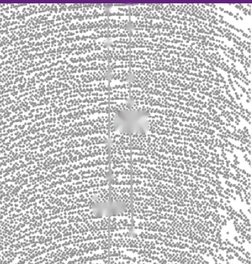
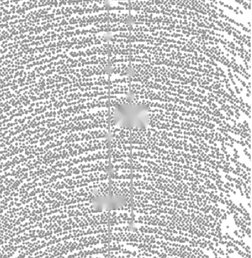
Method figure: crop the predictions, novel-view and initialization panels inside their source borders

diff --git a/index.html b/index.html
@@ -381,7 +381,7 @@ footer{padding-block:32px 48px;color:var(--dim);font-size:.85rem;text-align:cent
   <g class="st-init">
     <path class="fl a-in" d="M242,140 H274" fill="none" stroke="#7a7a7a" stroke-width="1.7" marker-end="url(#mt-ahg)"/><path class="fl a-in" d="M242,224 H274" fill="none" stroke="#7a7a7a" stroke-width="1.7" marker-end="url(#mt-ahg)"/><path class="fl a-in" d="M242,304 H274" fill="none" stroke="#7a7a7a" stroke-width="1.7" marker-end="url(#mt-ahg)"/>
     <g class=""><rect x="276" y="48" width="132" height="180" rx="5" fill="#fff" stroke="#6a2a8c" stroke-width="1.6"/><rect x="276" y="48" width="132" height="42" rx="5" fill="#e6d8f0" stroke="#6a2a8c" stroke-width="1.6"/><text x="342.0" y="66.0" text-anchor="middle" class="hd">Scene</text><text x="342.0" y="82.0" text-anchor="middle" class="hd">Initialization</text></g>
-    <image class="cloud" href="static/images/method/init_bg.jpg" x="279" y="94" width="126" height="132" clip-path="url(#mt-sweep)"/>
+    <image class="cloud" href="static/images/method/init_bg.jpg" x="279" y="97" width="126" height="129" clip-path="url(#mt-sweep)"/>
     <g class="seeds" fill="#e3122f"><circle cx="340.5" cy="155.3" r="1.1"/><circle cx="342.6" cy="155.9" r="1.1"/><circle cx="346.7" cy="150.3" r="1.1"/><circle cx="336.9" cy="158.3" r="1.1"/><circle cx="340.8" cy="152.1" r="1.1"/><circle cx="352.6" cy="154.5" r="1.1"/><circle cx="350.1" cy="154.6" r="1.1"/><circle cx="346.9" cy="151.2" r="1.1"/><circle cx="346.8" cy="158.6" r="1.1"/><circle cx="345.0" cy="157.3" r="1.1"/><circle cx="347.4" cy="150.3" r="1.1"/><circle cx="348.8" cy="155.8" r="1.1"/><circle cx="341.5" cy="150.0" r="1.1"/><circle cx="350.5" cy="154.6" r="1.1"/><circle cx="348.2" cy="158.7" r="1.1"/><circle cx="348.1" cy="159.2" r="1.1"/><circle cx="343.0" cy="157.9" r="1.1"/><circle cx="343.8" cy="159.3" r="1.1"/><circle cx="350.7" cy="150.7" r="1.1"/><circle cx="338.8" cy="151.9" r="1.1"/><circle cx="352.1" cy="154.2" r="1.1"/><circle cx="346.7" cy="152.8" r="1.1"/><circle cx="344.8" cy="153.7" r="1.1"/><circle cx="342.3" cy="155.7" r="1.1"/><circle cx="346.0" cy="159.0" r="1.1"/><circle cx="347.6" cy="159.3" r="1.1"/><circle cx="350.4" cy="159.9" r="1.1"/><circle cx="347.4" cy="151.4" r="1.1"/><circle cx="350.4" cy="159.6" r="1.1"/><circle cx="351.1" cy="155.5" r="1.1"/><circle cx="348.1" cy="151.9" r="1.1"/><circle cx="350.0" cy="155.6" r="1.1"/><circle cx="341.2" cy="150.3" r="1.1"/><circle cx="350.3" cy="159.9" r="1.1"/><circle cx="338.1" cy="157.9" r="1.1"/><circle cx="343.2" cy="151.2" r="1.1"/><circle cx="341.4" cy="157.6" r="1.1"/><circle cx="350.6" cy="150.1" r="1.1"/><circle cx="346.5" cy="150.1" r="1.1"/><circle cx="348.2" cy="153.1" r="1.1"/><circle cx="350.8" cy="159.8" r="1.1"/><circle cx="344.8" cy="160.0" r="1.1"/><circle cx="341.6" cy="150.5" r="1.1"/><circle cx="346.3" cy="150.0" r="1.1"/><circle cx="339.8" cy="153.9" r="1.1"/><circle cx="346.4" cy="151.3" r="1.1"/><circle cx="337.3" cy="158.6" r="1.1"/><circle cx="341.7" cy="159.6" r="1.1"/><circle cx="351.0" cy="153.6" r="1.1"/><circle cx="344.0" cy="155.0" r="1.1"/><circle cx="347.0" cy="155.8" r="1.1"/><circle cx="345.6" cy="156.1" r="1.1"/><circle cx="351.7" cy="154.9" r="1.1"/><circle cx="343.6" cy="157.1" r="1.1"/><circle cx="340.5" cy="152.8" r="1.1"/><circle cx="352.3" cy="155.1" r="1.1"/><circle cx="345.4" cy="149.8" r="1.1"/><circle cx="343.3" cy="155.7" r="1.1"/><circle cx="337.0" cy="156.0" r="1.1"/><circle cx="346.8" cy="150.3" r="1.1"/><circle cx="346.7" cy="154.5" r="1.1"/><circle cx="347.5" cy="153.3" r="1.1"/><circle cx="348.0" cy="157.3" r="1.1"/><circle cx="337.0" cy="150.3" r="1.1"/><circle cx="347.5" cy="159.6" r="1.1"/><circle cx="340.7" cy="154.4" r="1.1"/><circle cx="346.2" cy="153.0" r="1.1"/><circle cx="342.5" cy="152.9" r="1.1"/><circle cx="342.6" cy="155.8" r="1.1"/><circle cx="341.5" cy="153.6" r="1.1"/><circle cx="349.0" cy="149.9" r="1.1"/><circle cx="345.8" cy="157.3" r="1.1"/><circle cx="341.6" cy="152.0" r="1.1"/><circle cx="349.5" cy="152.1" r="1.1"/><circle cx="339.7" cy="154.2" r="1.1"/><circle cx="336.6" cy="195.6" r="1.1"/><circle cx="330.7" cy="197.1" r="1.1"/><circle cx="338.7" cy="197.8" r="1.1"/><circle cx="339.1" cy="196.1" r="1.1"/><circle cx="330.9" cy="199.1" r="1.1"/><circle cx="339.5" cy="197.9" r="1.1"/><circle cx="329.2" cy="195.8" r="1.1"/><circle cx="334.0" cy="196.2" r="1.1"/><circle cx="338.3" cy="200.3" r="1.1"/><circle cx="328.5" cy="196.8" r="1.1"/><circle cx="338.3" cy="199.1" r="1.1"/><circle cx="338.3" cy="197.2" r="1.1"/><circle cx="327.7" cy="196.8" r="1.1"/><circle cx="338.1" cy="196.7" r="1.1"/><circle cx="331.1" cy="197.6" r="1.1"/><circle cx="332.2" cy="197.6" r="1.1"/><circle cx="340.1" cy="196.0" r="1.1"/><circle cx="325.7" cy="201.0" r="1.1"/><circle cx="339.5" cy="201.2" r="1.1"/><circle cx="332.5" cy="201.0" r="1.1"/><circle cx="340.2" cy="196.4" r="1.1"/><circle cx="337.4" cy="200.3" r="1.1"/><circle cx="336.1" cy="198.3" r="1.1"/><circle cx="330.2" cy="197.2" r="1.1"/><circle cx="329.2" cy="195.4" r="1.1"/><circle cx="334.9" cy="196.8" r="1.1"/><circle cx="338.4" cy="195.3" r="1.1"/><circle cx="339.8" cy="199.4" r="1.1"/><circle cx="340.1" cy="200.7" r="1.1"/><circle cx="339.8" cy="198.7" r="1.1"/><circle cx="325.9" cy="199.7" r="1.1"/><circle cx="328.4" cy="196.9" r="1.1"/><circle cx="336.1" cy="198.3" r="1.1"/><circle cx="332.2" cy="200.9" r="1.1"/><circle cx="335.3" cy="197.2" r="1.1"/><circle cx="329.6" cy="200.5" r="1.1"/><circle cx="333.1" cy="200.0" r="1.1"/><circle cx="331.2" cy="196.2" r="1.1"/><circle cx="334.0" cy="200.2" r="1.1"/><circle cx="328.4" cy="200.0" r="1.1"/><circle cx="340.1" cy="200.1" r="1.1"/><circle cx="338.6" cy="195.0" r="1.1"/><circle cx="335.5" cy="200.5" r="1.1"/><circle cx="326.5" cy="196.7" r="1.1"/><circle cx="329.9" cy="198.3" r="1.1"/></g>
     <g class="knots-i" fill="#2a74e0"><circle class="kn" style="--i:0" cx="345.04" cy="210.37" r="1.7"/><circle class="kn" style="--i:1" cx="333.86" cy="182.31" r="1.7"/><circle class="kn" style="--i:2" cx="333.27" cy="165.28" r="1.7"/><circle class="kn" style="--i:3" cx="343.83" cy="144.85" r="1.7"/><circle class="kn" style="--i:4" cx="343.93" cy="132.87" r="1.7"/><circle class="kn" style="--i:5" cx="333.37" cy="131.49" r="1.7"/><circle class="kn" style="--i:6" cx="332.88" cy="115.34" r="1.7"/><circle class="kn" style="--i:7" cx="343.93" cy="107.73" r="1.7"/><circle class="kn" style="--i:8" cx="332.96" cy="98.22" r="1.7"/><circle class="kn" style="--i:9" cx="343.33" cy="95.95" r="1.7"/></g>
     <g class=""><rect x="276" y="240" width="130" height="100" rx="5" fill="#fff" stroke="#6a2a8c" stroke-width="1.6"/><rect x="276" y="240" width="130" height="42" rx="5" fill="#e6d8f0" stroke="#6a2a8c" stroke-width="1.6"/><text x="341.0" y="258.0" text-anchor="middle" class="hd">Fixed Sensor</text><text x="341.0" y="274.0" text-anchor="middle" class="hd">Model</text></g>
@@ -399,7 +399,7 @@ footer{padding-block:32px 48px;color:var(--dim);font-size:.85rem;text-align:cent
     <text x="773" y="266" text-anchor="middle" class="hd" font-size="15">RAD Renderer</text>
     <path class="fl a-opt" d="M636,252 H698" fill="none" stroke="#7a7a7a" stroke-width="1.7" marker-end="url(#mt-ahg)"/><path class="fl a-opt" d="M341,340 V356 H773 V284" fill="none" stroke="#7a7a7a" stroke-width="1.7" marker-end="url(#mt-ahg)"/><path class="fl a-opt" d="M773,238 V206" fill="none" stroke="#7a7a7a" stroke-width="1.7" marker-end="url(#mt-ahg)"/>
     <g class=""><rect x="670" y="48" width="232" height="156" rx="5" fill="#fff" stroke="#8f1d3a" stroke-width="1.6"/><rect x="670" y="48" width="232" height="26" rx="5" fill="#f4c3cd" stroke="#8f1d3a" stroke-width="1.6"/><text x="786.0" y="66.0" text-anchor="middle" class="hd"></text><text x="786" y="66" text-anchor="middle" class="hd">Radar Predictions {<tspan font-style="italic">Ŷ</tspan><tspan dy="4" class="sb">t</tspan><tspan dy="-4">, </tspan><tspan font-style="italic">P</tspan><tspan dy="4" class="sb">t</tspan><tspan dy="-4" dx="1.5">}</tspan><tspan dy="-6" dx=".5" class="sb">T</tspan><tspan dy="10" dx="-5" class="sb">t=1</tspan></text></g>
-    <image href="static/images/method/pred.jpg" x="674" y="78" width="224" height="124"/>
+    <image href="static/images/method/pred.jpg" x="674" y="80" width="224" height="122"/>
     <g class="loss"><rect x="452" y="8" width="184" height="32" rx="5" fill="#f5c2cb" stroke="#e39aa7"/>
       <text x="544" y="29" text-anchor="middle" class="hd" font-size="14.5"><tspan font-style="italic">ℒ</tspan> = <tspan font-style="italic">ℒ</tspan><tspan dy="4" class="sb">rec</tspan><tspan dy="-4"> + </tspan><tspan font-style="italic">λ</tspan><tspan dy="4" class="sb">int</tspan><tspan dy="-4" font-style="italic"> ℒ</tspan><tspan dy="4" class="sb">int</tspan></text></g>
     <path class="gr" d="M124,48 V24 H450" fill="none" stroke="#cc1f2f" stroke-width="1.7" stroke-dasharray="7 5" marker-end="url(#mt-ahr)"/><path class="gr" d="M638,24 H786 V46" fill="none" stroke="#cc1f2f" stroke-width="1.7" stroke-dasharray="7 5" marker-end="url(#mt-ahr)"/><path class="gr" d="M795,206 V236" fill="none" stroke="#cc1f2f" stroke-width="1.7" stroke-dasharray="7 5" marker-end="url(#mt-ahr)"/><path class="gr" d="M698,266 H638" fill="none" stroke="#cc1f2f" stroke-width="1.7" stroke-dasharray="7 5" marker-end="url(#mt-ahr)"/>
@@ -409,7 +409,7 @@ footer{padding-block:32px 48px;color:var(--dim);font-size:.85rem;text-align:cent
   <g class="st-nv">
     <path class="fl a-nv" d="M846,260 H864" fill="none" stroke="#7a7a7a" stroke-width="1.7" marker-end="url(#mt-ahg)"/>
     <g class=""><rect x="866" y="210" width="237" height="148" rx="5" fill="#fff" stroke="#3c8a32" stroke-width="1.6"/><rect x="866" y="210" width="237" height="24" rx="5" fill="#d3ecca" stroke="#3c8a32" stroke-width="1.6"/><text x="984.5" y="227.0" text-anchor="middle" class="hd"></text><text x="984" y="227" text-anchor="middle" class="hd">Novel view <tspan font-style="italic">Ŷ</tspan><tspan dy="4" class="sb">t*</tspan><tspan dy="-4">, </tspan><tspan font-style="italic">P</tspan><tspan dy="4" class="sb">t*</tspan></text></g>
-    <image class="novel" href="static/images/method/novel.jpg" x="870" y="238" width="230" height="118" clip-path="url(#mt-wipe)"/>
+    <image class="novel" href="static/images/method/novel.jpg" x="870" y="238" width="225" height="118" clip-path="url(#mt-wipe)"/>
   </g>
 
   <g class="legendbox"><rect x="930" y="42" width="173" height="58" rx="8" fill="#fff" stroke="#bdbdbd" stroke-width="1.4"/>

diff --git a/tools/build_method.py b/tools/build_method.py
@@ -142,7 +142,7 @@ def svg():
   <g class="st-init">
     {arrow("M242,140 H274", "fl a-in")}{arrow("M242,224 H274", "fl a-in")}{arrow("M242,304 H274", "fl a-in")}
     {box(276, 48, 132, 180, PURP, PURP_F, "Scene\nInitialization", hh=42)}</g>
-    <image class="cloud" href="{IMG}init_bg.jpg" x="279" y="94" width="126" height="132" clip-path="url(#mt-sweep)"/>
+    <image class="cloud" href="{IMG}init_bg.jpg" x="279" y="97" width="126" height="129" clip-path="url(#mt-sweep)"/>
     <g class="seeds" fill="#e3122f">{seeds()}</g>
     <g class="knots-i" fill="#2a74e0">{blues("init")}</g>
     {box(276, 240, 130, 100, PURP, PURP_F, "Fixed Sensor\nModel", hh=42)}</g>
@@ -160,7 +160,7 @@ def svg():
     <text x="773" y="266" text-anchor="middle" class="hd" font-size="15">RAD Renderer</text>
     {arrow("M636,252 H698", "fl a-opt")}{arrow("M341,340 V356 H773 V284", "fl a-opt")}{arrow("M773,238 V206", "fl a-opt")}
     {box(670, 48, 232, 156, CRIM, CRIM_F, "")}<text x="786" y="66" text-anchor="middle" class="hd">Radar Predictions {{<tspan font-style="italic">Ŷ</tspan><tspan dy="4" class="sb">t</tspan><tspan dy="-4">, </tspan><tspan font-style="italic">P</tspan><tspan dy="4" class="sb">t</tspan><tspan dy="-4" dx="1.5">}}</tspan><tspan dy="-6" dx=".5" class="sb">T</tspan><tspan dy="10" dx="-5" class="sb">t=1</tspan></text></g>
-    <image href="{IMG}pred.jpg" x="674" y="78" width="224" height="124"/>
+    <image href="{IMG}pred.jpg" x="674" y="80" width="224" height="122"/>
     <g class="loss"><rect x="452" y="8" width="184" height="32" rx="5" fill="#f5c2cb" stroke="#e39aa7"/>
       <text x="544" y="29" text-anchor="middle" class="hd" font-size="14.5"><tspan font-style="italic">ℒ</tspan> = <tspan font-style="italic">ℒ</tspan><tspan dy="4" class="sb">rec</tspan><tspan dy="-4"> + </tspan><tspan font-style="italic">λ</tspan><tspan dy="4" class="sb">int</tspan><tspan dy="-4" font-style="italic"> ℒ</tspan><tspan dy="4" class="sb">int</tspan></text></g>
     {arrow("M124,48 V24 H450", "gr", red=True)}{arrow("M638,24 H786 V46", "gr", red=True)}{arrow("M795,206 V236", "gr", red=True)}{arrow("M698,266 H638", "gr", red=True)}
@@ -170,7 +170,7 @@ def svg():
   <g class="st-nv">
     {arrow("M846,260 H864", "fl a-nv")}
     {box(866, 210, 237, 148, GRN, GRN_F, "", hh=24)}<text x="984" y="227" text-anchor="middle" class="hd">Novel view <tspan font-style="italic">Ŷ</tspan><tspan dy="4" class="sb">t*</tspan><tspan dy="-4">, </tspan><tspan font-style="italic">P</tspan><tspan dy="4" class="sb">t*</tspan></text></g>
-    <image class="novel" href="{IMG}novel.jpg" x="870" y="238" width="230" height="118" clip-path="url(#mt-wipe)"/>
+    <image class="novel" href="{IMG}novel.jpg" x="870" y="238" width="225" height="118" clip-path="url(#mt-wipe)"/>
   </g>
 
   <g class="legendbox"><rect x="930" y="42" width="173" height="58" rx="8" fill="#fff" stroke="#bdbdbd" stroke-width="1.4"/>
